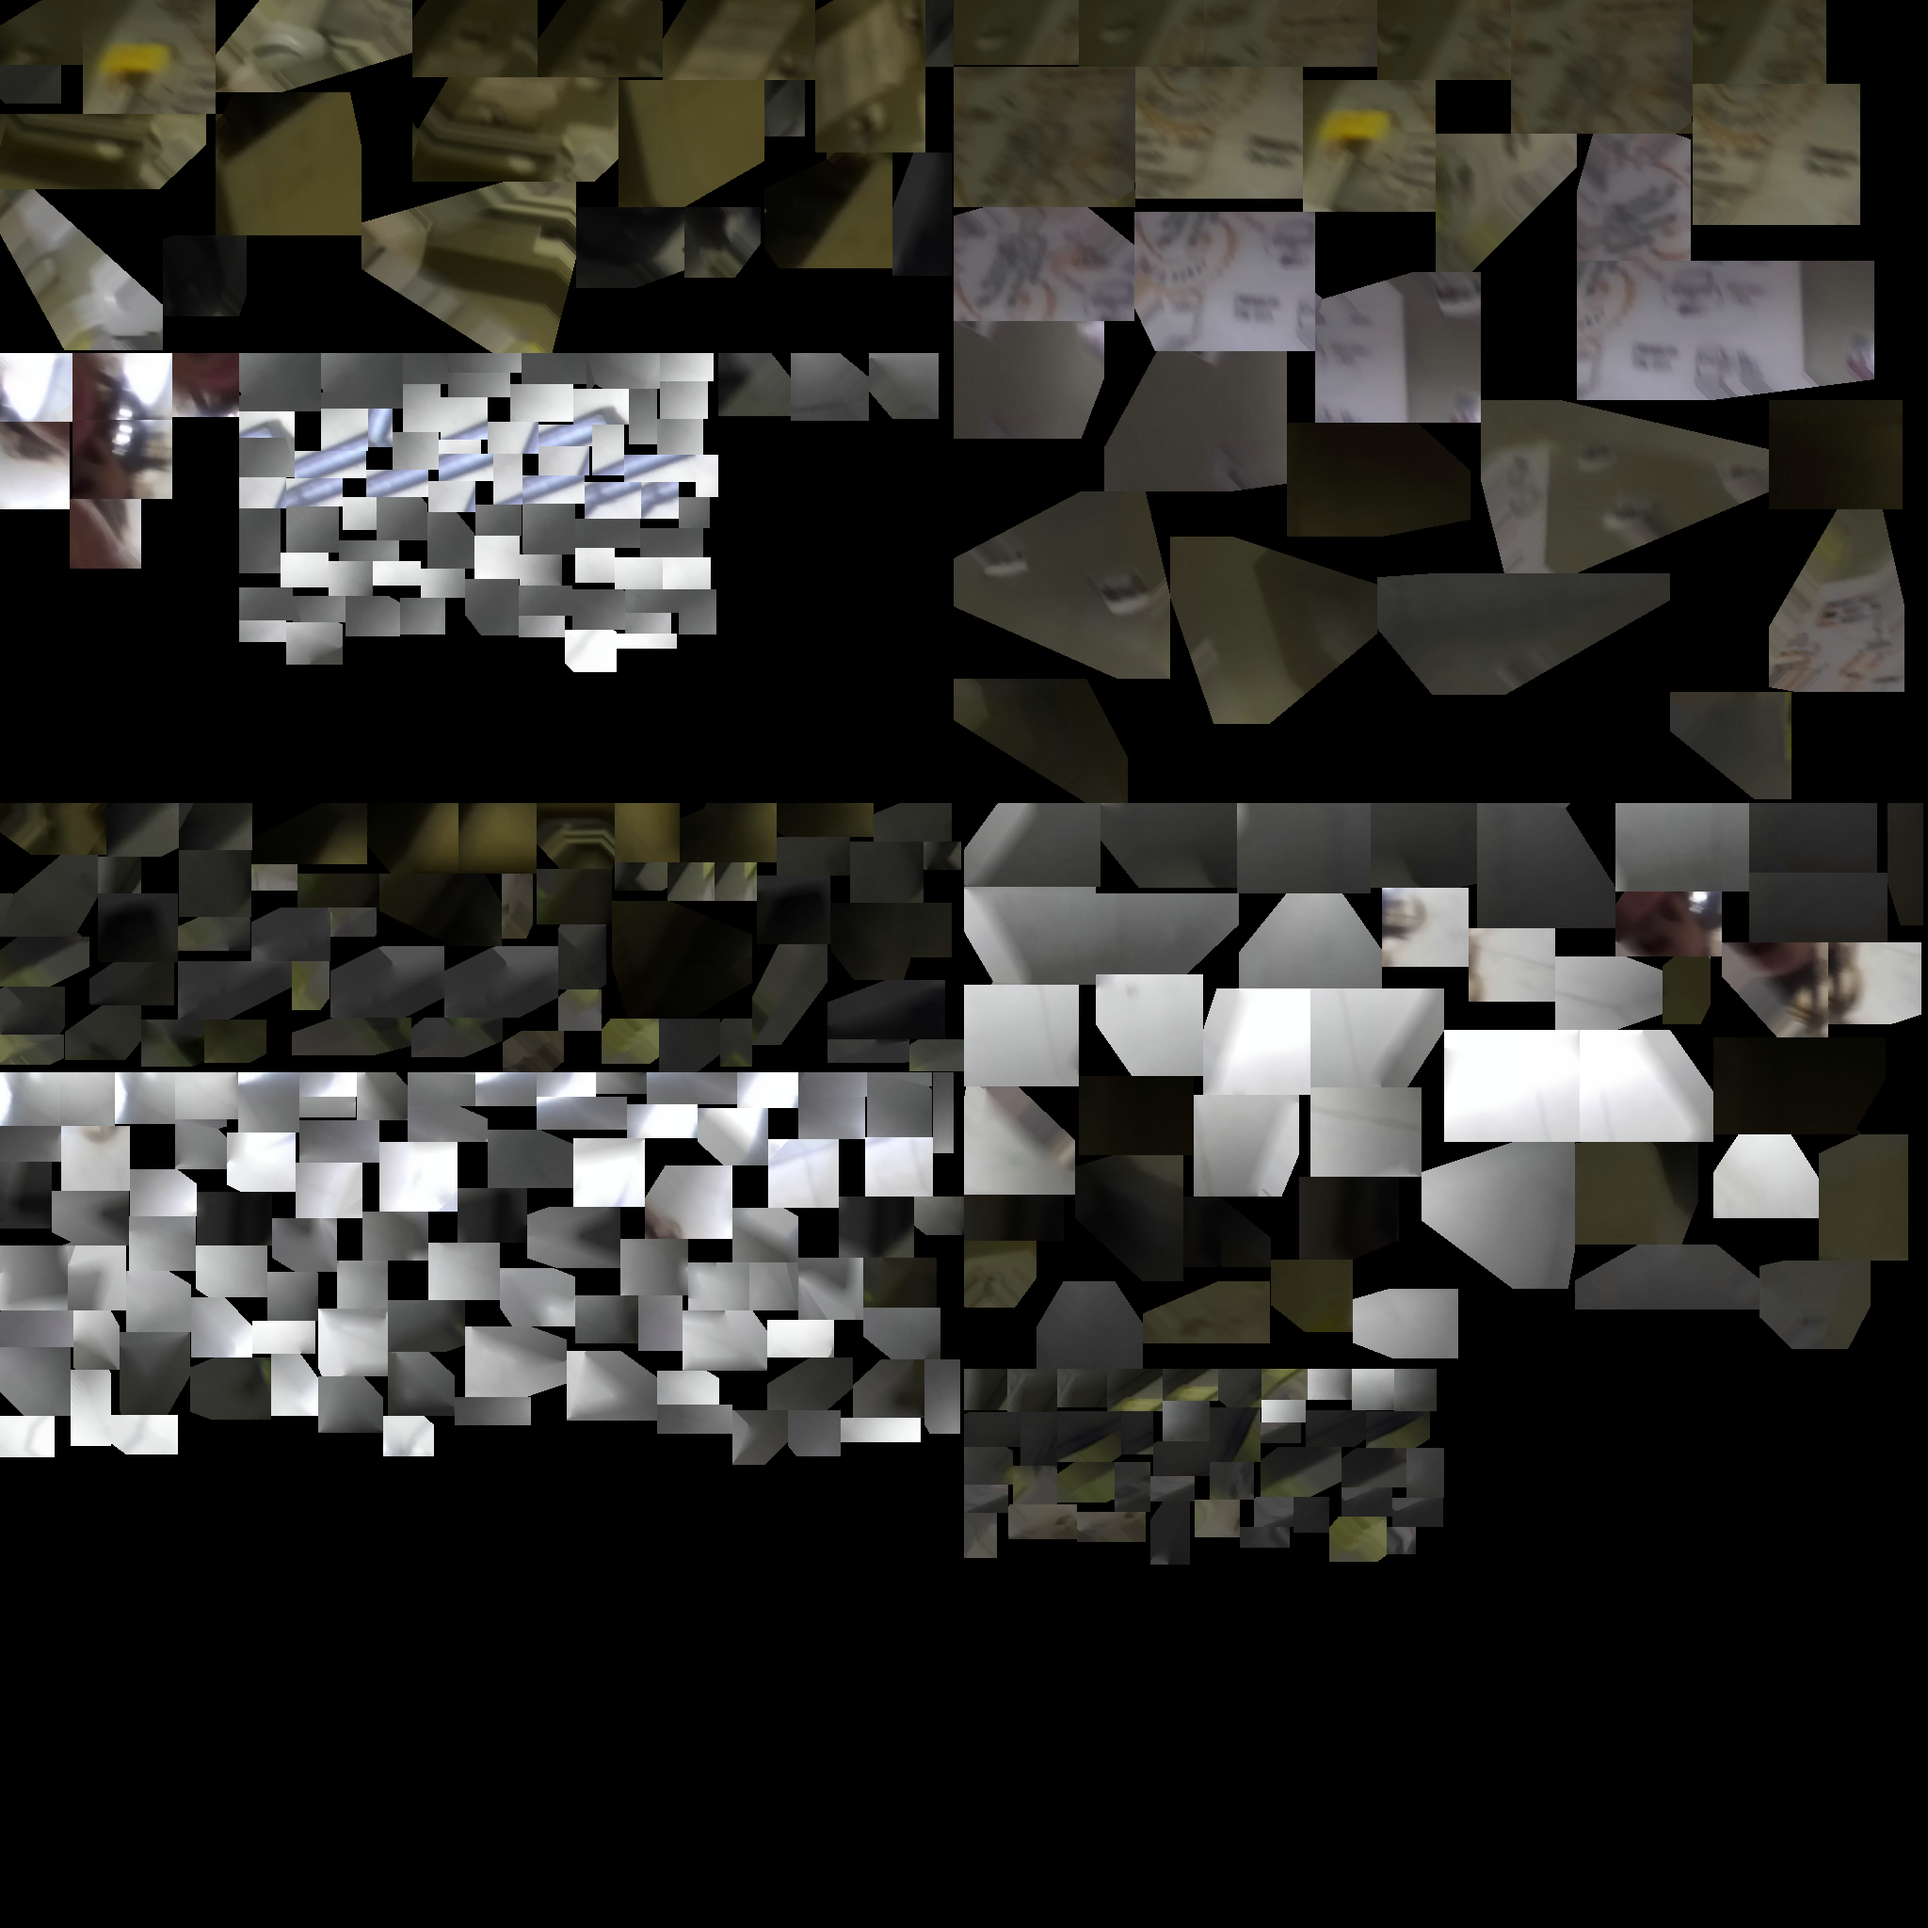
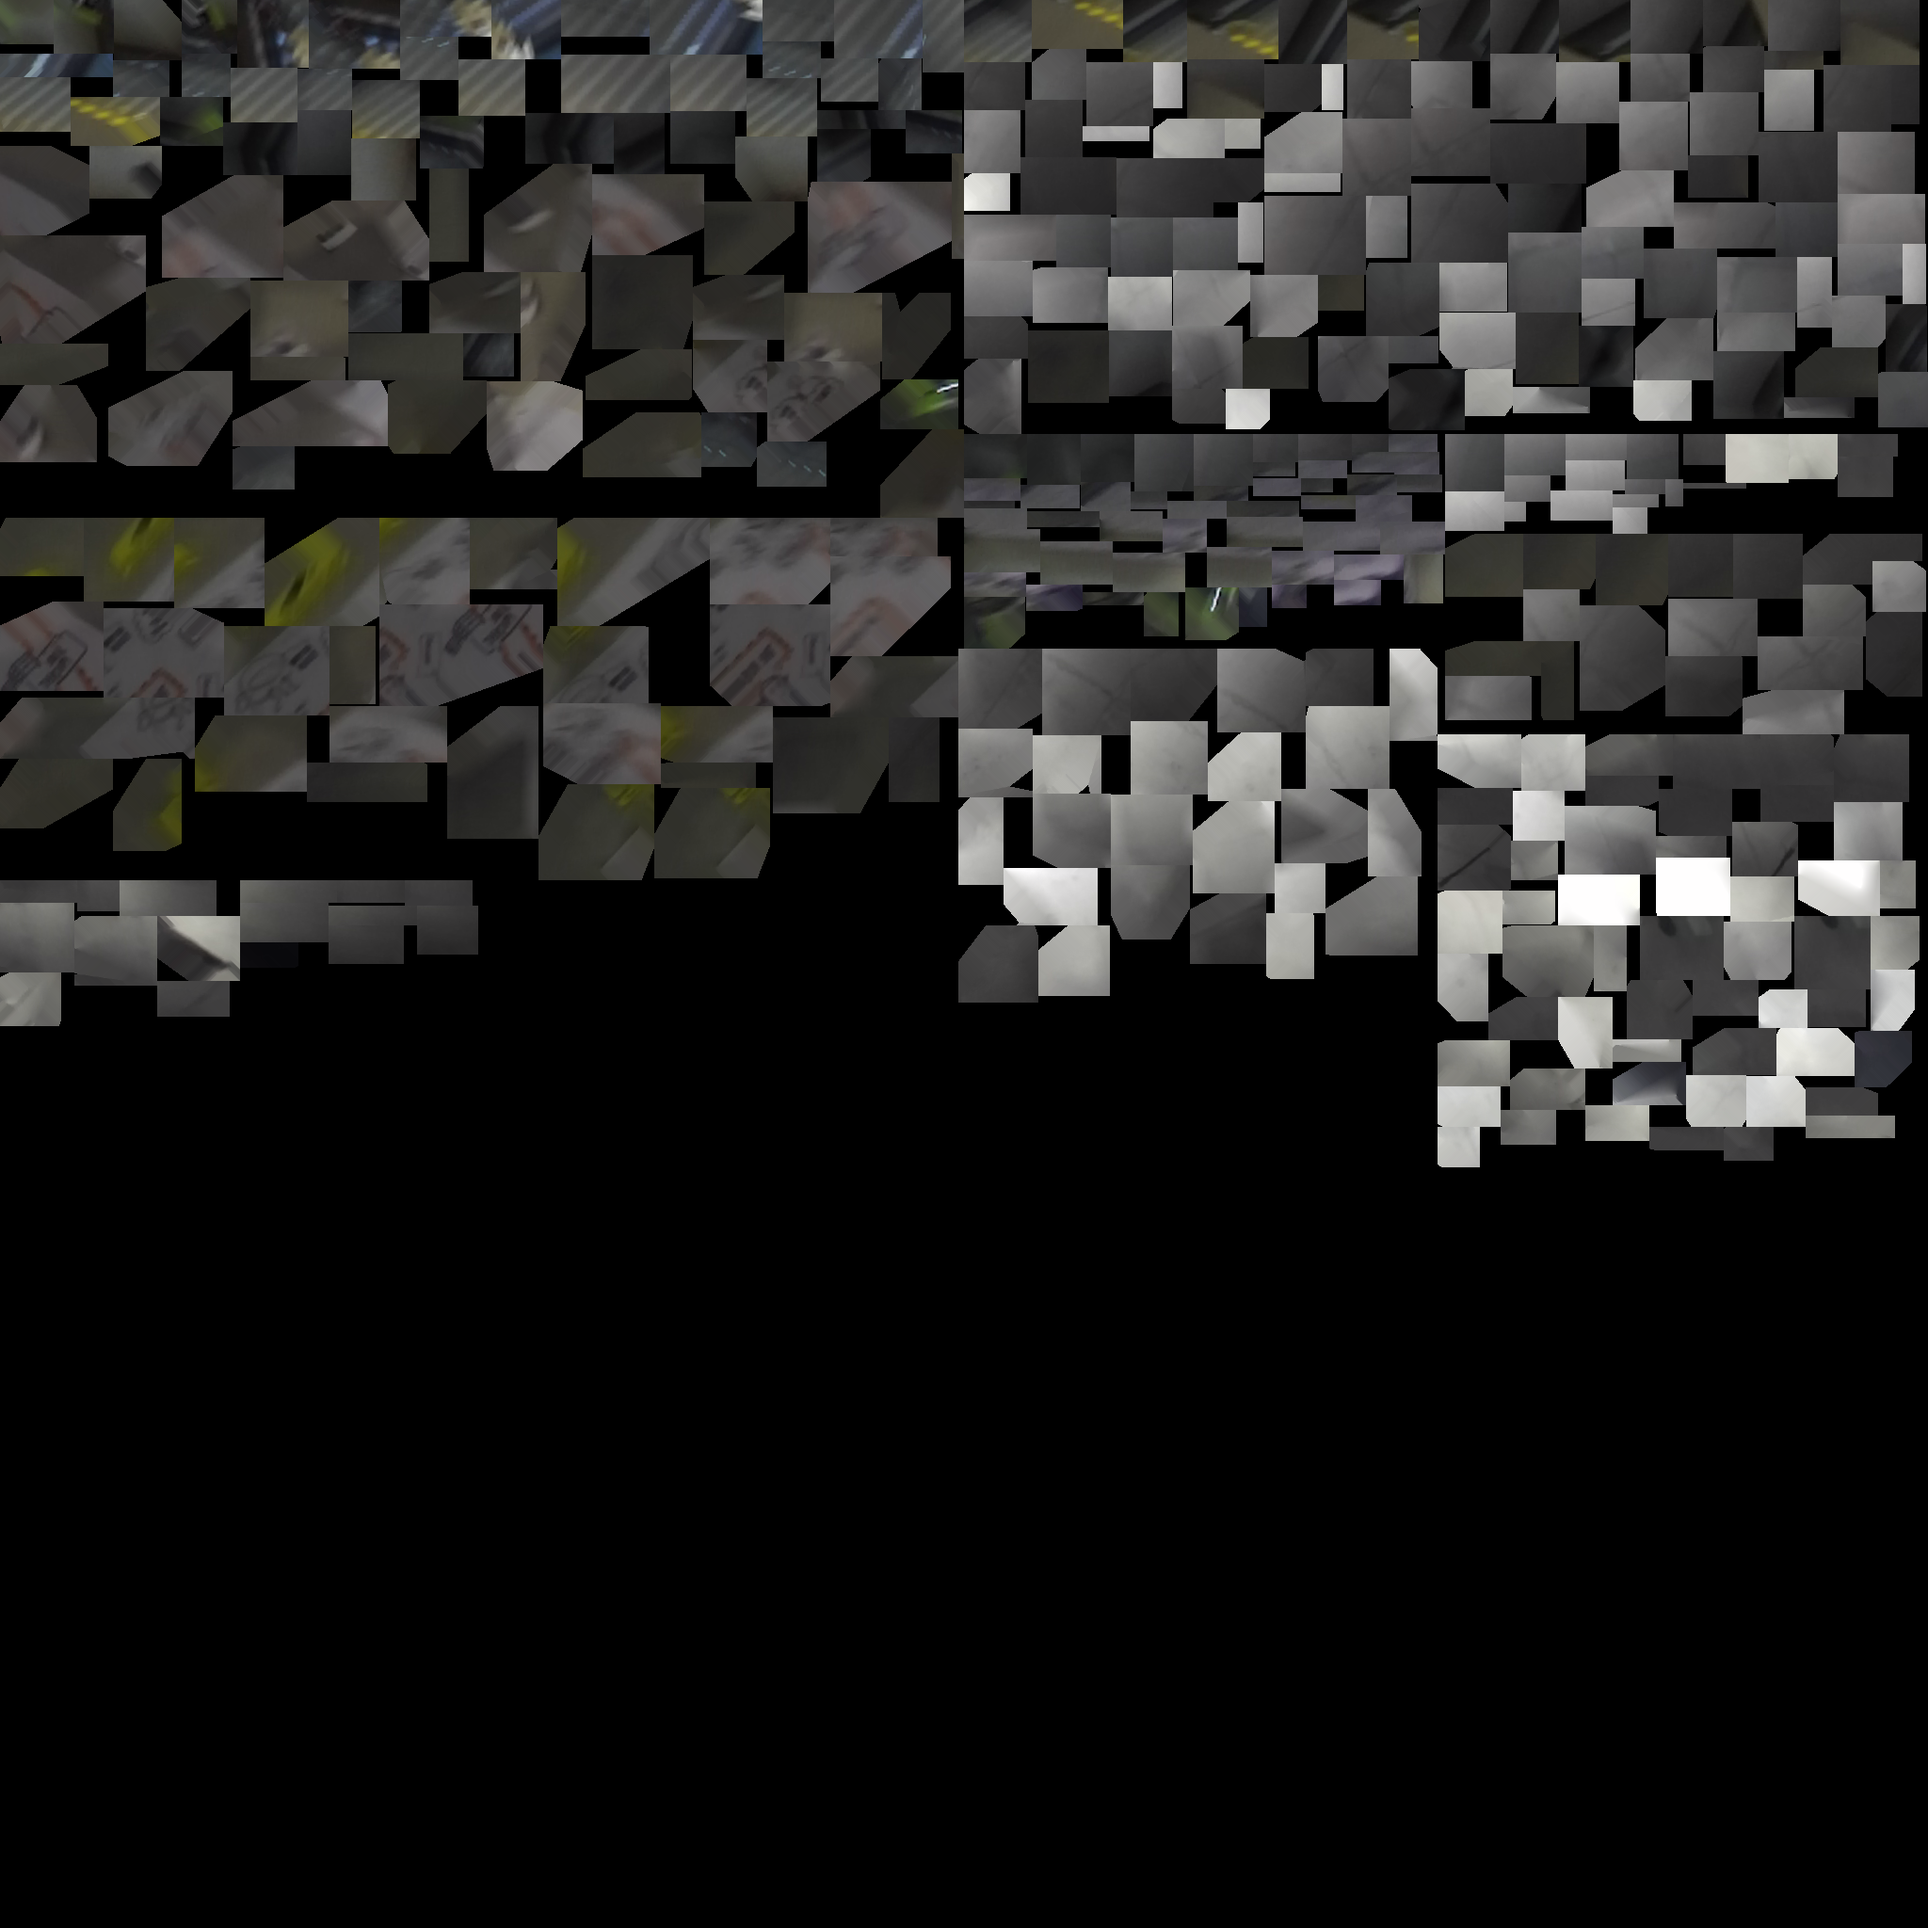
[Cic picklerick] getArray messages fixed with memcpy]

diff --git a/UnityWrapperTest/UnityWrapperTest.cpp b/UnityWrapperTest/UnityWrapperTest.cpp
@@ -11,7 +11,7 @@
 
 using namespace std;
 
-int loopTime = 60;
+int loopTime = 5;
 
 int main()
 {
@@ -27,7 +27,10 @@ int main()
 		time_t end = time(0);
 		time_t timeTaken = end - start;
 		timeLeft = loopTime - timeTaken;
+		cout << setw(3) << timeLeft << '\r' << flush;
 	}
+
+	stopSpatialMappingAndSave();
 	cout << "Main loop done" << endl;
 	int verticesSize = getMeshSize();
 	sl::float3* vertices = new sl::float3[verticesSize];
@@ -37,18 +40,36 @@ int main()
 	int trianglesSize = getTrianglesSize();
 	sl::uint3* triangles = new sl::uint3[trianglesSize];
 
-	stopSpatialMappingAndSave();
+	
 
 	getVertices(vertices, verticesSize);
 	getNormals(normals, verticesSize);
 	getUVs(uvs, verticesSize);
 	getTriangles(triangles, trianglesSize);
 
-	int width = getTextureWidth();
+	sl::Mesh mesh;
+	mesh.vertices.resize(verticesSize);
+	mesh.normals.resize(verticesSize);
+	mesh.uv.resize(verticesSize);
+	mesh.triangles.resize(trianglesSize);
+
+	memcpy(&mesh.vertices[0], &vertices[0], sizeof(sl::float3) * verticesSize);
+	memcpy(&mesh.normals[0], &normals[0], sizeof(sl::float3) * verticesSize);
+	memcpy(&mesh.uv[0], &uvs[0], sizeof(sl::float2) * verticesSize);
+	memcpy(&mesh.triangles[0], &triangles[0], sizeof(sl::uint3) * trianglesSize);
+
+	//mesh.vertices = vector<sl::float3>(vertices, vertices + sizeof(sl::float3) * verticesSize);
+	/*mesh.normals = vector<sl::float3>(normals, normals + sizeof(sl::float3) * verticesSize);
+	mesh.uv = vector<sl::float2>(uvs, uvs + sizeof(sl::float2) * verticesSize);
+	mesh.triangles = vector<sl::uint3>(triangles, triangles + sizeof(sl::uint3) * trianglesSize);*/
+
+	mesh.save("hackyObject.obj");
+
+	/*int width = getTextureWidth();
 	int height = getTextureHeight();
 
 	sl::uchar1* texture = new sl::uchar1[width * height * 3];
-	getTexture(texture, width, height);
+	getTexture(texture, width, height);*/
 	/*for (int i = 0; i < 100; i++) 
 	{
 		cout << (float)texture[i].r << " : " << (float)texture[i].y << " : " << (float)texture[i].z << endl;

diff --git a/ConsoleApplication1/UnityWrapper.cpp b/ConsoleApplication1/UnityWrapper.cpp
@@ -12,6 +12,7 @@ static sl::Camera zed;
 static sl::SpatialMappingParameters spatial_mapping_params2;
 static sl::MeshFilterParameters filter_params;
 static sl::TRACKING_STATE tracking_state;
+static sl::Pose pose;
 
 bool mapping_is_started = false;
 
@@ -93,7 +94,7 @@ extern "C"
 
 	sl::ERROR_CODE mappingLoop()
 	{
-		volatile sl::ERROR_CODE err = sl::ERROR_CODE::ERROR_CODE_FAILURE;
+		sl::ERROR_CODE err = sl::ERROR_CODE::ERROR_CODE_FAILURE;
 		if (mapping_is_started)
 		{
 			if ((err = zed.grab()) == sl::SUCCESS)
@@ -104,7 +105,7 @@ extern "C"
 					zed.requestMeshAsync();					
 				}
 				else return err;
-				
+				zed.getPosition(pose);
 			}
 			else return err;
 		}
@@ -120,7 +121,7 @@ extern "C"
 
 	int getMeshSize()
 	{
-		return vertices.size() > 0 ? vertices.size() : -1;
+		return mesh.vertices.size() > 0 ? mesh.vertices.size() : -1;
 	}
 
 	int getTrianglesSize() 
@@ -132,7 +133,7 @@ extern "C"
 	{
 		if (mesh.vertices.size() > 0) 
 		{
-			memcpy(vert, &(mesh.vertices[0]), size);
+			memcpy(vert, &(mesh.vertices[0]), sizeof(sl::float3) * size);
 			return true;
 		}
 		else return false;
@@ -142,7 +143,7 @@ extern "C"
 	{
 		if (mesh.normals.size() > 0)
 		{
-			memcpy(norm, &(mesh.normals[0]), size);
+			memcpy(norm, &(mesh.normals[0]), sizeof(sl::float3) * size);
 			return true;
 		}
 		else return false;
@@ -152,7 +153,7 @@ extern "C"
 	{
 		if (mesh.uv.size() > 0)
 		{
-			memcpy(uv, &(mesh.uv[0]), size);
+			memcpy(uv, &(mesh.uv[0]), sizeof(sl::float2) * size);
 			return true;
 		}
 		else return false;
@@ -162,7 +163,7 @@ extern "C"
 	{
 		if (mesh.triangles.size() > 0)
 		{
-			memcpy(triangles, &(mesh.triangles[0]), size);
+			memcpy(triangles, &(mesh.triangles[0]), sizeof(sl::uint3) * size);
 			return true;
 		}
 		else return false;
